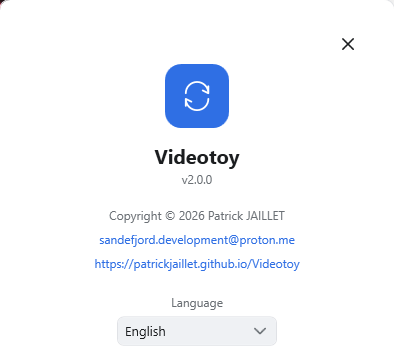
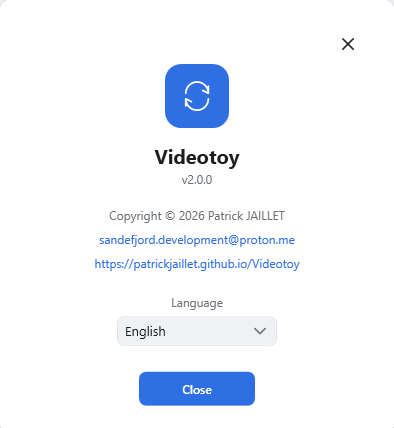
fix: About window's Close button was clipped, hidden below the fixed window bounds
AboutWindow used a fixed Height="440" with ResizeMode="NoResize", but
its content (icon, title, version, copyright, email, website, language
picker, and the Close button) exceeds that height -- the last row's
Close button rendered partially or fully outside the visible/clickable
window area. Switched to SizeToContent="Height" so the window always
grows to fit its actual content instead of guessing a fixed value, and
changed the now-unused "*" row to "Auto" for consistency. Retook the
About window screenshot used on the site now that the button is fully
visible.

diff --git a/src/Videotoy.App/Views/AboutWindow.xaml b/src/Videotoy.App/Views/AboutWindow.xaml
@@ -4,7 +4,8 @@
         xmlns:loc="clr-namespace:Videotoy.App.Localization"
         Title="{loc:Loc Key=about.windowTitle}"
         Width="420"
-        Height="440"
+        Height="520"
+        SizeToContent="Height"
         WindowStyle="None"
         AllowsTransparency="True"
         Background="Transparent"
@@ -18,7 +19,7 @@
                 <RowDefinition Height="Auto" />
                 <RowDefinition Height="Auto" />
                 <RowDefinition Height="Auto" />
-                <RowDefinition Height="*" />
+                <RowDefinition Height="Auto" />
                 <RowDefinition Height="Auto" />
             </Grid.RowDefinitions>
 
